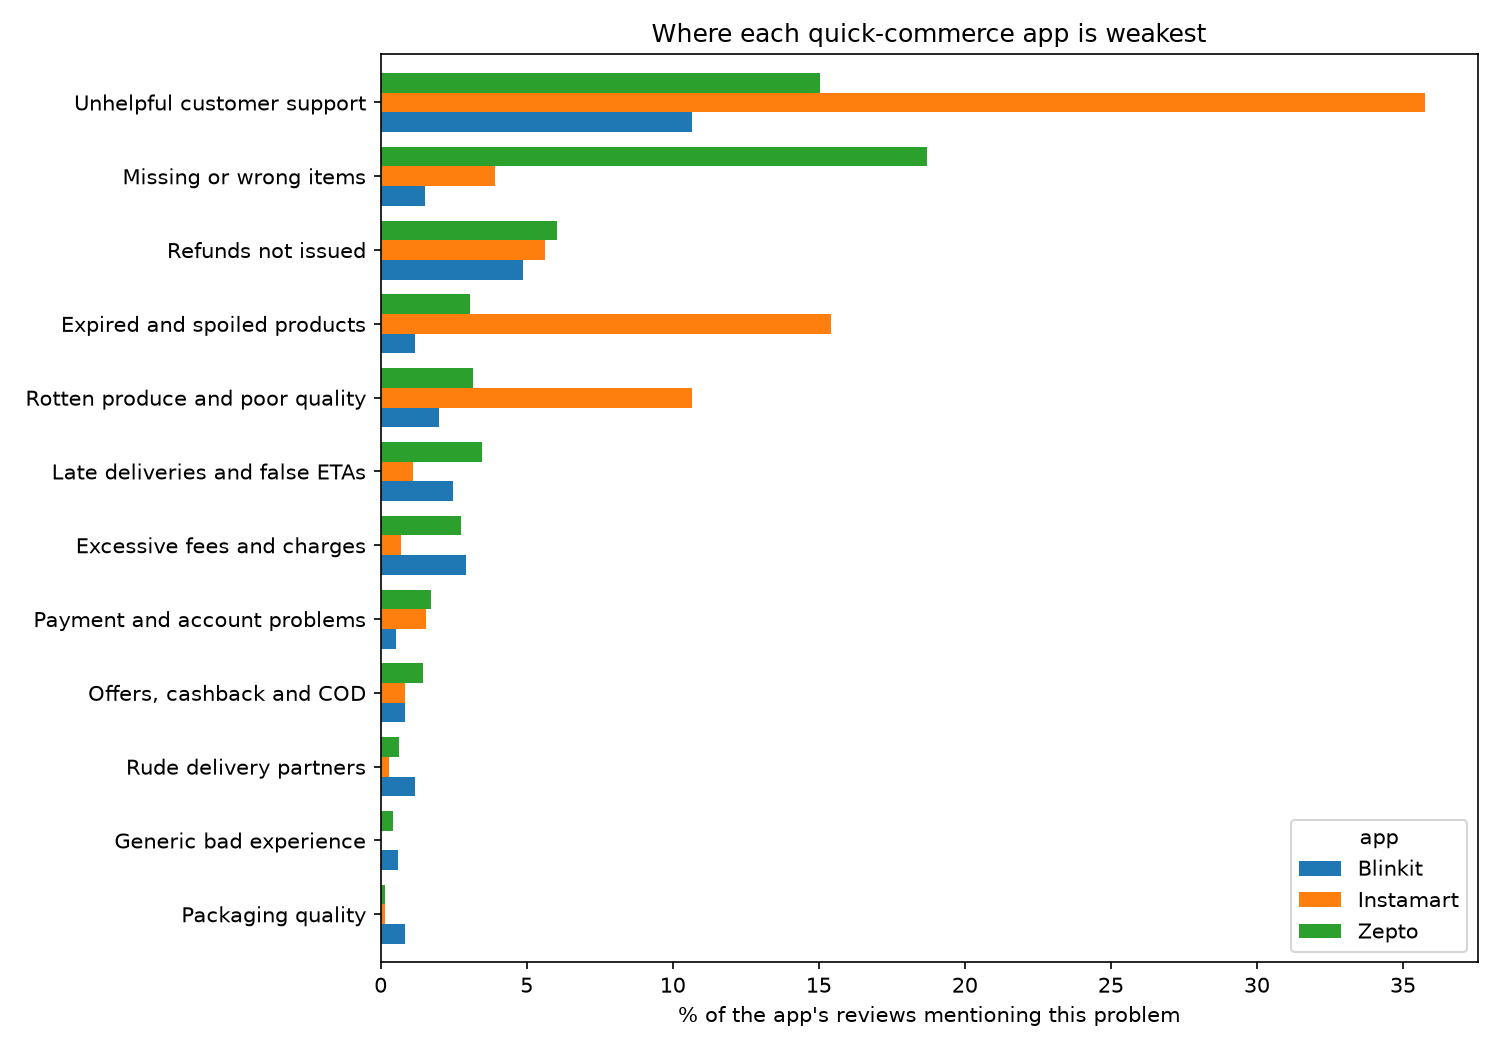
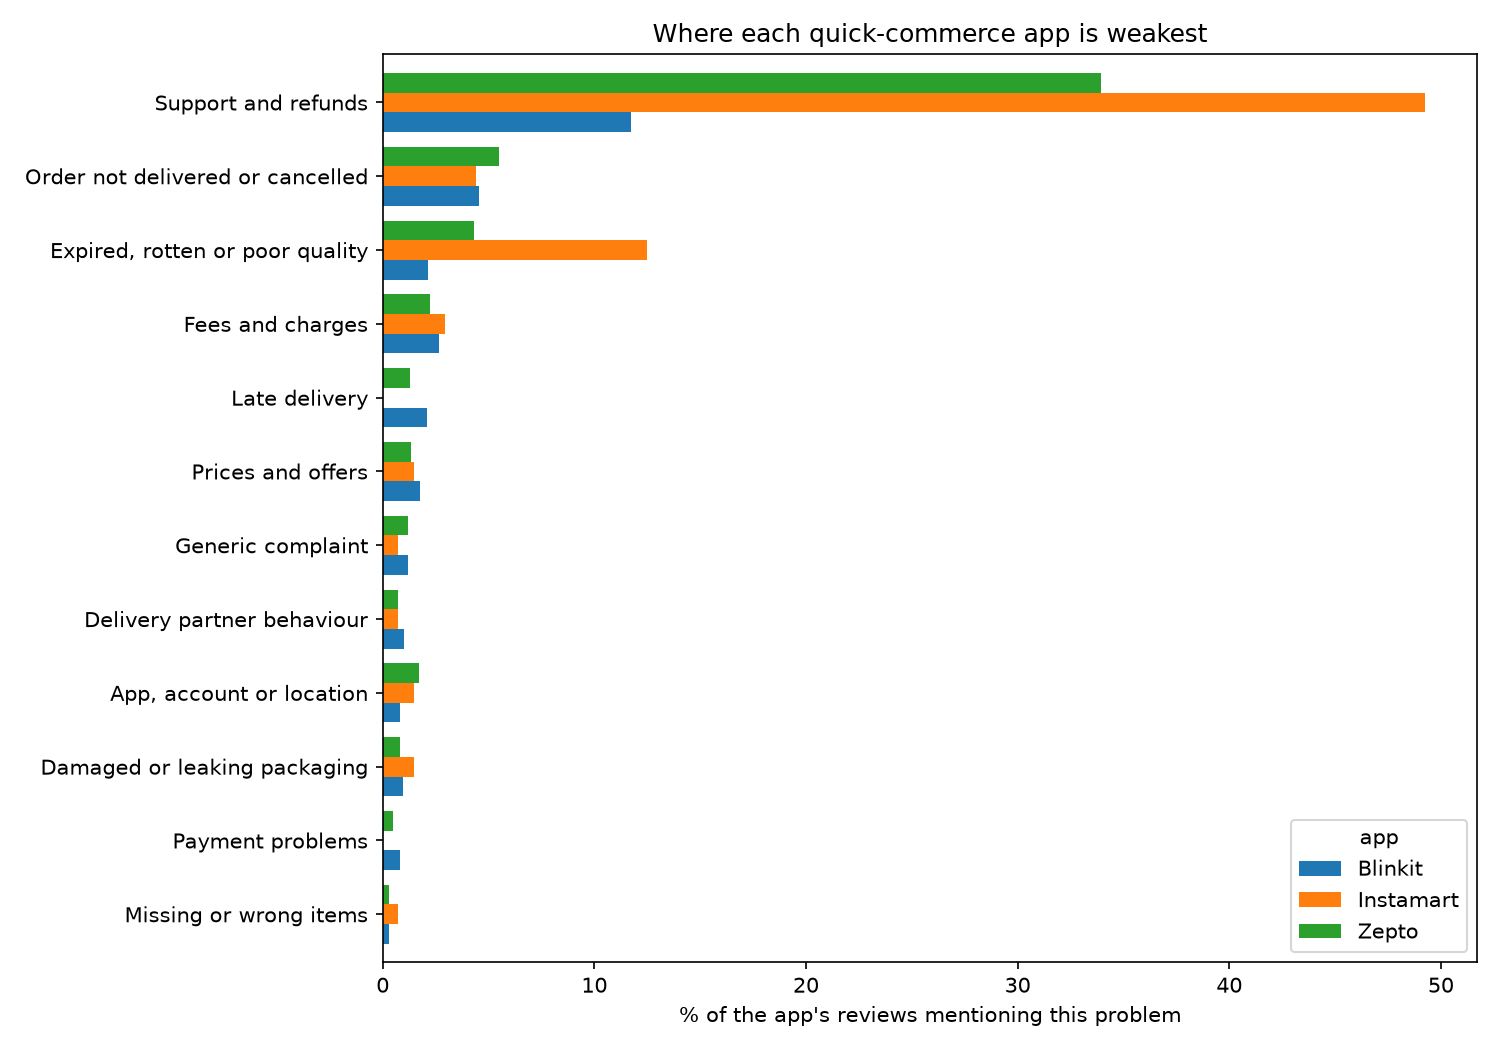
Matched time window and fixed theme list

diff --git a/src/rank_themes.py b/src/rank_themes.py
@@ -42,19 +42,37 @@ TOOL = {
     },
 }
 
+# Fixed theme list (a PM decision): keeps results stable across runs and is the
+# same list used to hand-label reviews for the eval.
+THEMES = {
+    "Missing or wrong items": "items missing from the order, or a different item sent",
+    "Order not delivered or cancelled": "order never arrived, or was cancelled after payment",
+    "Expired, rotten or poor quality": "expired, spoiled, rotten, fake or low-quality products",
+    "Damaged or leaking packaging": "torn bags, leaks, broken seals, melted or warm items",
+    "Late delivery": "slower than the promised time, wrong ETAs",
+    "Fees and charges": "delivery, handling, surge, platform or small-order fees",
+    "Prices and offers": "high prices, price changes, offers or cashback not working",
+    "Payment problems": "failed payments, double debits, cash on delivery unavailable",
+    "App, account or location": "app crashes, login, account blocked, area not serviceable, referral",
+    "Delivery partner behaviour": "rude or unresponsive delivery partners",
+    "Support and refunds": "ONLY when the main complaint is support itself or a refund, with no clearer root problem above",
+    "Generic complaint": "vague 'worst app' reviews with no specific problem",
+    "Off-topic": "restaurant food delivery, not groceries or quick commerce",
+}
+theme_list = "\n".join(f"- {name}: {desc}" for name, desc in THEMES.items())
+
 table = "\n".join(f"cluster {r.cluster} | {r.reviews} reviews | {r.label} | {r.summary}"
                   for r in labels.itertuples())
 prompt = (
     "Below are clusters of complaint reviews for Indian quick-commerce apps "
     "(Zepto, Blinkit, Swiggy Instamart).\n\n" + table + "\n\n"
-    "Group them into 8 to 12 themes based on the ROOT problem, meaning what actually "
-    "went wrong (for example missing items, expired or rotten products, fees, late "
-    "delivery). Most complaints also mention poor support or refunds; only put a "
-    "cluster in a support/refund theme if support itself is the main complaint. "
-    "If a cluster is about restaurant food delivery rather than groceries or "
-    "quick commerce, put it in a theme named exactly 'Off-topic'. "
-    "Every cluster id must appear in exactly one theme. "
-    "Respond only by calling the record_themes tool."
+    "Assign every cluster to exactly one of these themes, using the theme names "
+    "exactly as written:\n" + theme_list + "\n\n"
+    "Choose by the ROOT problem: what actually went wrong. Most complaints also say "
+    "support was unhelpful or a refund was denied; that alone does not make it "
+    "'Support and refunds'. If a cluster's label names a root problem (missing item, "
+    "expired product, damaged item, non-delivery), use that theme. "
+    "Respond only by calling the record_themes tool, with one entry per theme used."
 )
 msg = client.messages.create(model=MODEL, max_tokens=3000, tools=[TOOL],
                              messages=[{"role": "user", "content": prompt}])
@@ -65,8 +83,11 @@ if result is None:
 
 theme_of = {}
 for t in result["themes"]:
+    name = t["name"] if t["name"] in THEMES else "Other"
+    if name == "Other":
+        print(f"Note: Claude used an unknown theme '{t['name']}', put in 'Other'")
     for cid in t["cluster_ids"]:
-        theme_of.setdefault(int(cid), t["name"])
+        theme_of.setdefault(int(cid), name)
 missing = set(labels.cluster) - set(theme_of)
 for cid in missing:
     theme_of[cid] = "Other"

diff --git a/src/scrape_reviews.py b/src/scrape_reviews.py
@@ -11,11 +11,15 @@ import pandas as pd
 # main Swiggy app. We pull more Swiggy reviews and keep only Instamart ones.
 APPS = {
     "Zepto":     {"pkg": "com.zeptoconsumerapp",    "count": 4000, "keywords": None},
-    "Blinkit":   {"pkg": "com.grofers.customerapp", "count": 4000, "keywords": None},
+    "Blinkit":   {"pkg": "com.grofers.customerapp", "count": 30000, "keywords": None},
     "Instamart": {"pkg": "in.swiggy.android",       "count": 40000,
                   "keywords": r"insta ?mart|grocer|vegetable|fruit|milk|dairy|atta|"
                               r"\begg|bread|onion|tomato|expired|rotten"},
 }
+
+# Every app is cut to the same window so the comparison is fair.
+# (Blinkit gets far more reviews per day than Zepto, so it needs a much bigger pull.)
+START_DATE = "2026-10-01"
 
 rows = []
 for name, cfg in APPS.items():
@@ -32,6 +36,10 @@ for name, cfg in APPS.items():
         "date": r["at"],
         "thumbs_up": r["thumbsUpCount"],
     } for r in data])
+    oldest = app_df.date.min()
+    app_df = app_df[app_df.date >= START_DATE]
+    if oldest > pd.Timestamp(START_DATE):
+        print(f"  WARNING: {name} only goes back to {oldest:%d %b} - raise its count")
     pulled = len(app_df)
     if cfg["keywords"]:
         app_df = app_df[app_df.text.fillna("").str.contains(cfg["keywords"], case=False)]
